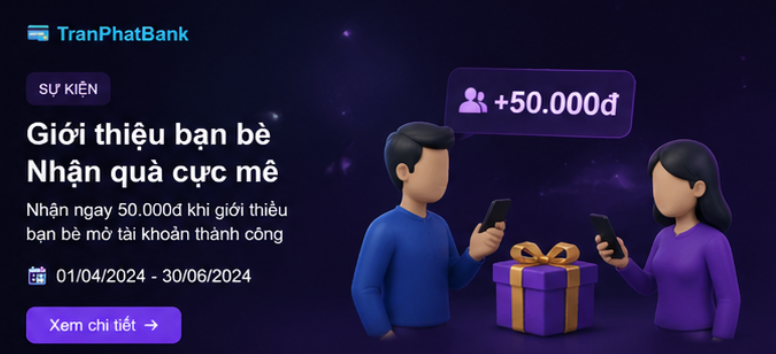
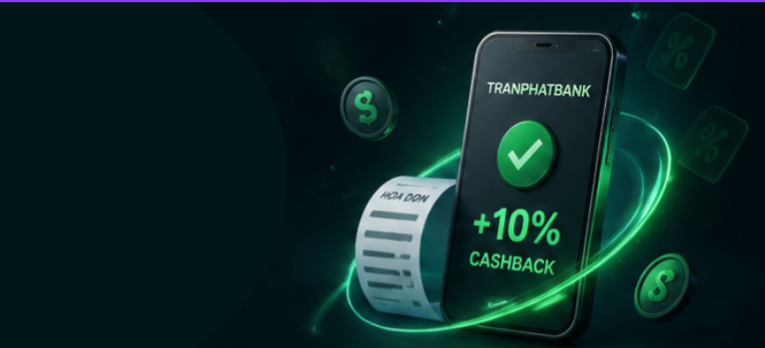
update profile user

diff --git a/src/main/resources/templates/profileUser.html b/src/main/resources/templates/profileUser.html
@@ -1,0 +1,320 @@
+<!DOCTYPE html>
+<html lang="vi" xmlns:th="http://www.thymeleaf.org">
+<head>
+    <meta charset="UTF-8">
+    <title>My Profile | Banking System</title>
+    <meta name="viewport" content="width=device-width, initial-scale=1.0">
+
+    <style>
+        * {
+            margin: 0;
+            padding: 0;
+            box-sizing: border-box;
+        }
+
+        body {
+            font-family: Arial, sans-serif;
+            background: radial-gradient(circle at top left, #1e3a8a 0%, transparent 30%),
+            radial-gradient(circle at bottom right, #0ea5e9 0%, transparent 25%),
+            #0f172a;
+            min-height: 100vh;
+            color: white;
+            padding: 40px 20px;
+        }
+
+        .wrapper {
+            max-width: 1100px;
+            margin: auto;
+        }
+
+        .title {
+            font-size: 32px;
+            font-weight: 700;
+            margin-bottom: 25px;
+        }
+
+        .title span {
+            color: #38bdf8;
+        }
+
+        .grid {
+            display: grid;
+            grid-template-columns:360px 1fr;
+            gap: 24px;
+        }
+
+        .card {
+            background: rgba(30, 41, 59, 0.92);
+            border: 1px solid rgba(255, 255, 255, 0.06);
+            border-radius: 22px;
+            box-shadow: 0 20px 40px rgba(0, 0, 0, 0.35);
+            backdrop-filter: blur(8px);
+        }
+
+        /* LEFT */
+        .profile-card {
+            padding: 30px;
+            text-align: center;
+        }
+
+        .avatar-box {
+            position: relative;
+            width: 130px;
+            height: 130px;
+            margin: auto;
+        }
+
+        .avatar-box img {
+            width: 100%;
+            height: 100%;
+            border-radius: 50%;
+            object-fit: cover;
+            border: 4px solid #38bdf8;
+        }
+
+        .status-dot {
+            width: 18px;
+            height: 18px;
+            border-radius: 50%;
+            background: #22c55e;
+            border: 3px solid #0f172a;
+            position: absolute;
+            bottom: 8px;
+            right: 8px;
+        }
+
+        .name {
+            font-size: 24px;
+            font-weight: 700;
+            margin-top: 18px;
+        }
+
+        .username {
+            color: #94a3b8;
+            margin-top: 6px;
+        }
+
+        .badge {
+            display: inline-block;
+            margin-top: 14px;
+            padding: 8px 14px;
+            border-radius: 999px;
+            background: #0ea5e922;
+            color: #38bdf8;
+            font-size: 13px;
+            font-weight: 700;
+        }
+
+        .line {
+            height: 1px;
+            background: rgba(255, 255, 255, 0.06);
+            margin: 24px 0;
+        }
+
+        .info-row {
+            display: flex;
+            justify-content: space-between;
+            margin-bottom: 14px;
+            font-size: 14px;
+        }
+
+        .info-row span:first-child {
+            color: #94a3b8;
+        }
+
+        .balance-box {
+            margin-top: 25px;
+            padding: 18px;
+            border-radius: 18px;
+            background: linear-gradient(135deg, #0ea5e9, #2563eb);
+            text-align: left;
+        }
+
+        .balance-label {
+            font-size: 13px;
+            opacity: 0.85;
+        }
+
+        .balance {
+            font-size: 30px;
+            font-weight: 800;
+            margin-top: 8px;
+        }
+
+        /* RIGHT */
+        .detail-card {
+            padding: 30px;
+        }
+
+        .section-title {
+            font-size: 22px;
+            font-weight: 700;
+            margin-bottom: 25px;
+        }
+
+        .section-title span {
+            color: #38bdf8;
+        }
+
+        .detail-grid {
+            display: grid;
+            grid-template-columns:1fr 1fr;
+            gap: 18px;
+        }
+
+        .detail-item {
+            padding: 18px;
+            border-radius: 18px;
+            background: #0f172a;
+            border: 1px solid rgba(255, 255, 255, 0.05);
+        }
+
+        .label {
+            font-size: 13px;
+            color: #94a3b8;
+            margin-bottom: 8px;
+        }
+
+        .value {
+            font-size: 17px;
+            font-weight: 700;
+            word-break: break-word;
+        }
+
+        .wide {
+            grid-column: 1 / -1;
+        }
+
+        .footer-note {
+            margin-top: 24px;
+            padding: 16px;
+            border-radius: 16px;
+            background: #0f172a;
+            color: #94a3b8;
+            font-size: 14px;
+        }
+
+        @media (max-width: 900px) {
+            .grid {
+                grid-template-columns:1fr;
+            }
+        }
+
+        @media (max-width: 600px) {
+            .detail-grid {
+                grid-template-columns:1fr;
+            }
+
+            .title {
+                font-size: 26px;
+            }
+
+            .balance {
+                font-size: 24px;
+            }
+        }
+    </style>
+</head>
+<body>
+
+<div class="wrapper">
+
+    <div class="title">
+        My <span>Banking Profile</span>
+    </div>
+
+    <div class="grid">
+
+        <!-- LEFT PROFILE -->
+        <div class="card profile-card">
+
+            <div class="avatar-box">
+                <img th:src="${user.avatar}" alt="avatar">
+                <div class="status-dot"></div>
+            </div>
+
+            <div class="name" th:text="${user.fullName}">Trần Văn Phát</div>
+            <div class="username" th:text="'@' + ${user.username}">@phat</div>
+
+            <div class="badge" th:text="${user.role}">USER</div>
+
+            <div class="line"></div>
+
+            <div class="info-row">
+                <span>Status</span>
+                <span th:text="${user.status}">ACTIVE</span>
+            </div>
+
+            <div class="info-row">
+                <span>Joined</span>
+                <span th:text="${#temporals.format(user.createdAt,'dd/MM/yyyy')}">29/04/2026</span>
+            </div>
+
+            <div class="balance-box">
+                <div class="balance-label">Current Balance</div>
+                <div class="balance"
+                     th:text="${account.balance} + ' ' + ${account.currency}">
+                    12,500,000 VND
+                </div>
+            </div>
+
+        </div>
+
+        <!-- RIGHT DETAIL -->
+        <div class="card detail-card">
+
+            <div class="section-title">
+                Account <span>Information</span>
+            </div>
+
+            <div class="detail-grid">
+
+                <div class="detail-item">
+                    <div class="label">Full Name</div>
+                    <div class="value" th:text="${user.fullName}">Trần Văn Phát</div>
+                </div>
+
+                <div class="detail-item">
+                    <div class="label">Username</div>
+                    <div class="value" th:text="${user.username}">phat123</div>
+                </div>
+
+                <div class="detail-item">
+                    <div class="label">Email</div>
+                    <div class="value" th:text="${user.email}">[email redacted]</div>
+                </div>
+
+                <div class="detail-item">
+                    <div class="label">Phone</div>
+                    <div class="value" th:text="${user.phone}">[phone redacted]</div>
+                </div>
+
+                <div class="detail-item">
+                    <div class="label">Account Code</div>
+                    <div class="value" th:text="${account.code}">ACC001</div>
+                </div>
+
+                <div class="detail-item">
+                    <div class="label">Currency</div>
+                    <div class="value" th:text="${account.currency}">VND</div>
+                </div>
+
+                <div class="detail-item wide">
+                    <div class="label">Security Notice</div>
+                    <div class="value">Your account is protected by Banking Security System.</div>
+                </div>
+
+            </div>
+
+            <div class="footer-note">
+                Secure Banking System © 2026.
+            </div>
+
+        </div>
+
+    </div>
+
+</div>
+
+</body>
+</html>

diff --git a/src/main/resources/templates/dashboard.html b/src/main/resources/templates/dashboard.html
@@ -270,7 +270,7 @@
     <div class="logo">💳 TranPhatBank</div>
 
     <div class="menu">
-        <a th:href="@{/home}">🏠 Dashboard</a>
+        <a th:href="@{/dashboard}">🏠 Dashboard</a>
         <a th:href="@{/banking}">💸 Chuyển khoản</a>
         <a th:href="@{/history}">📜 Lịch sử GD</a>
         <a th:href="@{/qr}">📱 QR Payment</a>

diff --git a/src/main/java/com/example/banking/Controller/TransectionController.java b/src/main/java/com/example/banking/Controller/TransectionController.java
@@ -95,6 +95,18 @@ public class TransectionController {
         return "fromCK";
     }
 
+    //profileUser
+    @GetMapping("/profile")
+    public String fromProfile(Model model, @AuthenticationPrincipal CustomUserDetails user) {
+        String username = user.getUsername();
+        UserClass userclass = userrepo.findByUsername(username).orElseThrow(() -> new RuntimeException("Không tìm thấy user"));
+
+        AccountClass accountClass = accountRepository.findByUserId(userclass.getId()).orElseThrow(() -> new RuntimeException("không tìm thấy account"));
+        model.addAttribute("user", userclass);
+        model.addAttribute("account", accountClass);
+        return "profileUser";
+    }
+
     @Autowired
     RegisterService createser;
 